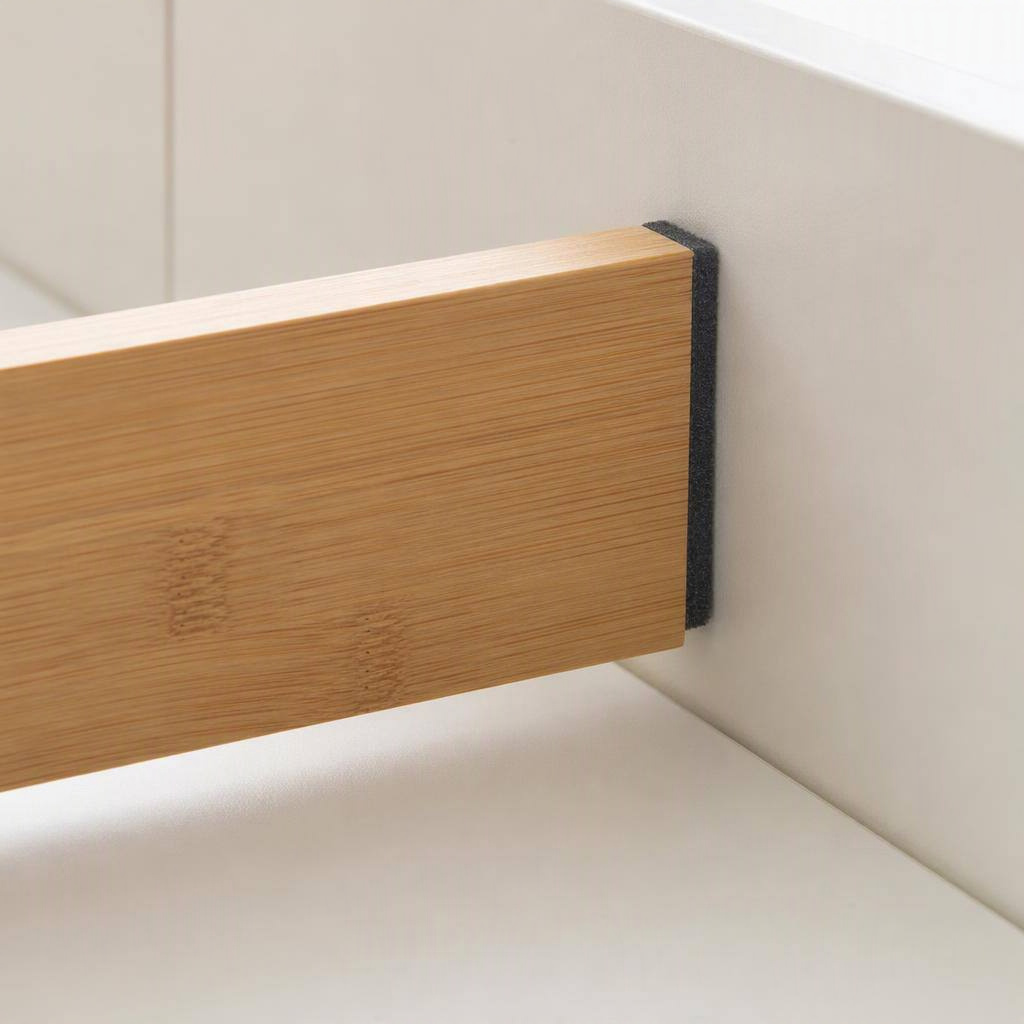
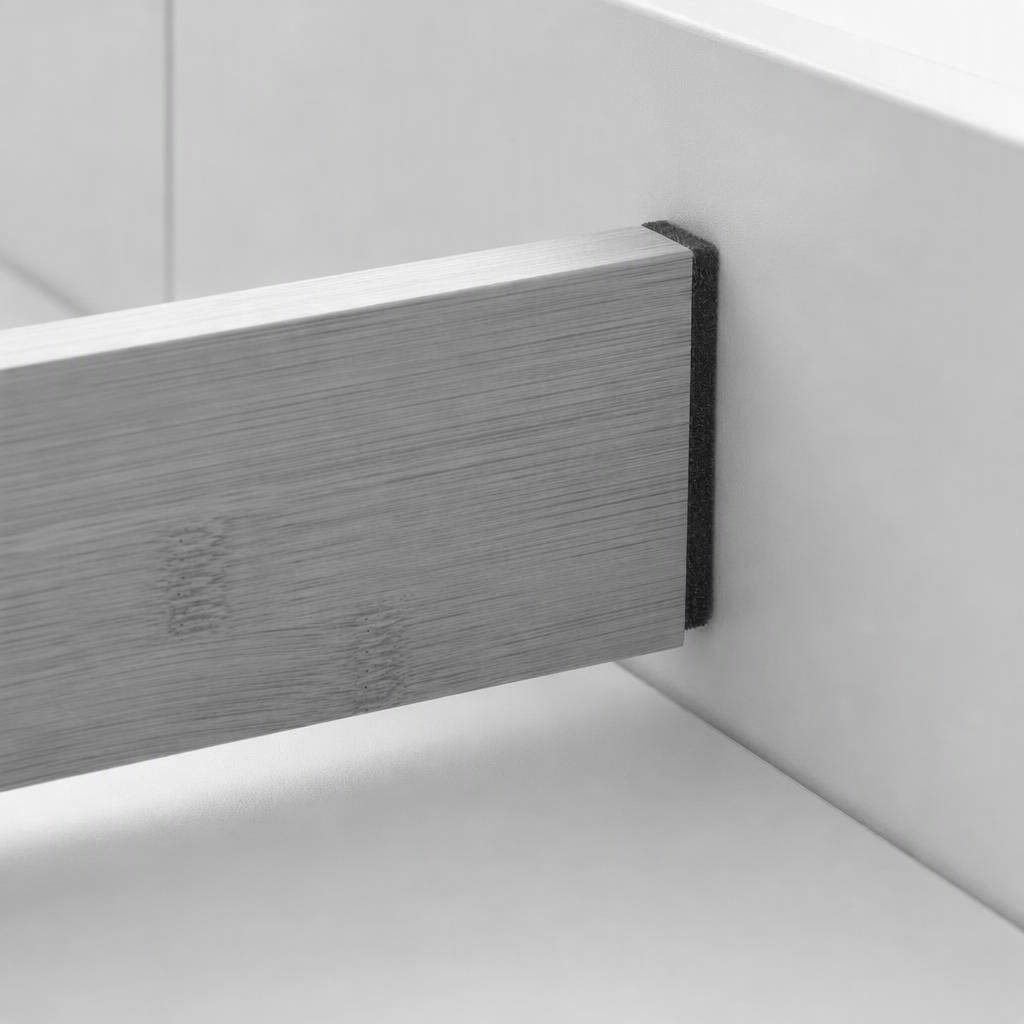
Give the shop black and white covers so every room and product scene shares one look.

Changed region(s): [[0.0, 0.2188, 0.6875, 0.7812]]

diff --git a/assets/site.css b/assets/site.css
@@ -151,10 +151,58 @@ button.menu-btn { display: none; }
   padding: 32px 16px;
 }
 .hero-visual img {
-  width: min(520px, 100%);
-  max-height: 560px;
-  object-fit: contain;
+  width: 100%;
+  height: 520px;
+  object-fit: cover;
+  border-radius: 28px;
+  filter: grayscale(1) contrast(1.05);
 }
+.rooms-wrap { padding-bottom: 14px; }
+.rooms { display: flex; gap: 4px; overflow: auto; }
+.rooms a {
+  font-size: 14px;
+  padding: 6px 12px;
+  border-radius: 999px;
+  color: rgba(0, 0, 0, 0.62);
+  white-space: nowrap;
+}
+.rooms a:hover, .rooms a[aria-current="page"] { background: var(--panel); color: #000; }
+.page-cover {
+  position: relative;
+  min-height: 320px;
+  display: flex;
+  align-items: flex-end;
+  overflow: hidden;
+  background: #111;
+  color: #fff;
+}
+.page-cover img {
+  position: absolute;
+  inset: 0;
+  width: 100%;
+  height: 100%;
+  object-fit: cover;
+  filter: grayscale(1) contrast(1.05);
+}
+.page-cover::after {
+  content: "";
+  position: absolute;
+  inset: 0;
+  background: linear-gradient(180deg, rgba(0, 0, 0, 0.12), rgba(0, 0, 0, 0.72));
+}
+.page-cover .wrap { position: relative; z-index: 1; padding: 48px 0; }
+.page-cover .kicker, .page-cover h1, .page-cover p { color: #fff; }
+.cover-title {
+  font-family: var(--display);
+  font-weight: 700;
+  letter-spacing: -0.03em;
+  line-height: 0.95;
+  font-size: clamp(40px, 5vw, 64px);
+  margin: 0;
+  text-transform: none;
+}
+.page-cover p { max-width: 36ch; margin: 8px 0 0; }
+.page-cover .page-title { margin: 0; }
 
 .section { padding: 64px 0; }
 .section-title {
@@ -188,7 +236,13 @@ button.menu-btn { display: none; }
 }
 .card:hover img { transform: scale(1.08); }
 .card h3 { margin: 0; font-size: 20px; font-weight: 700; letter-spacing: 0; text-transform: none; font-family: var(--sans); }
-.card .spec { color: var(--muted); font-size: 14px; margin: 4px 0 8px; }
+.card .spec {
+  font-family: var(--display);
+  color: #000;
+  font-size: 18px;
+  letter-spacing: -0.03em;
+  margin: 4px 0 8px;
+}
 .card .price { font-weight: 700; font-size: 24px; letter-spacing: -0.03em; }
 .card-row { display: flex; align-items: center; justify-content: space-between; width: 100%; gap: 8px; }
 .card .btn, .card .btn-line { padding: 10px 18px; font-size: 14px; }
@@ -205,24 +259,35 @@ button.menu-btn { display: none; }
   gap: 20px;
 }
 .style-card {
-  border-radius: 20px;
-  background: #fff center/cover no-repeat;
-  display: flex;
-  align-items: flex-start;
-  padding: 24px;
-  min-height: 190px;
   position: relative;
+  display: flex;
+  align-items: flex-end;
+  min-height: 280px;
+  border-radius: 20px;
   overflow: hidden;
+  padding: 20px;
+  background: #111;
+}
+.style-card img {
+  position: absolute;
+  inset: 0;
+  width: 100%;
+  height: 100%;
+  object-fit: cover;
+  filter: grayscale(1) contrast(1.05);
 }
 .style-card::before {
   content: "";
-  position: absolute; inset: 0;
-  background: linear-gradient(180deg, rgba(255,255,255,0.92), rgba(255,255,255,0.15) 55%);
+  position: absolute;
+  inset: 0;
+  background: linear-gradient(180deg, transparent 42%, rgba(0, 0, 0, 0.72));
 }
 .style-card span {
   position: relative;
+  z-index: 1;
+  color: #fff;
   font-family: var(--display);
-  font-size: 36px;
+  font-size: 32px;
   text-transform: uppercase;
   letter-spacing: -0.03em;
 }
@@ -311,7 +376,7 @@ hr.hair { border: 0; border-top: 1px solid var(--line); margin: 20px 0; }
   gap: 24px;
   align-items: center;
 }
-.detail-row img { width: 100%; aspect-ratio: 1; object-fit: cover; border-radius: 20px; background: var(--mat); }
+.detail-row img { width: 100%; aspect-ratio: 1; object-fit: cover; border-radius: 20px; background: var(--mat); filter: grayscale(1) contrast(1.05); }
 .detail-row p { color: var(--muted); margin: 0; max-width: 42ch; }
 .buy-row { display: flex; gap: 12px; align-items: center; flex-wrap: wrap; }
 .buy-row .btn { flex: 1; min-width: 180px; }
@@ -420,7 +485,7 @@ tr.deciding th, tr.deciding td { font-weight: 700; color: #000; }
 .story-sentence { font-size: clamp(36px, 4vw, 52px); }
 .story-fit { font-size: 18px; color: var(--muted); margin: 0; max-width: 28ch; }
 .story-still { margin: 0; }
-.story-still img { width: 100%; aspect-ratio: 1; object-fit: cover; border-radius: 28px; background: #fff; }
+.story-still img { width: 100%; aspect-ratio: 1; object-fit: cover; border-radius: 28px; background: #fff; filter: grayscale(1) contrast(1.05); }
 .story-still figcaption { margin-top: 10px; color: var(--muted); font-size: 13px; }
 .chips {
   position: absolute;
